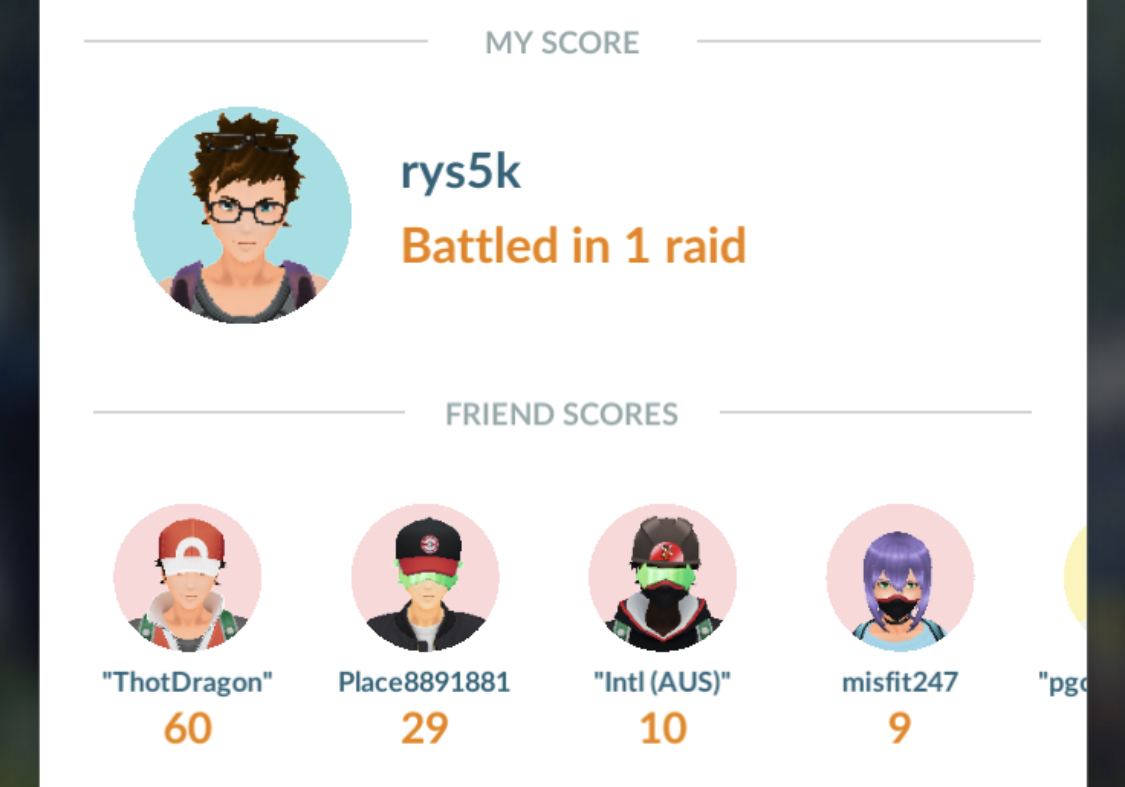
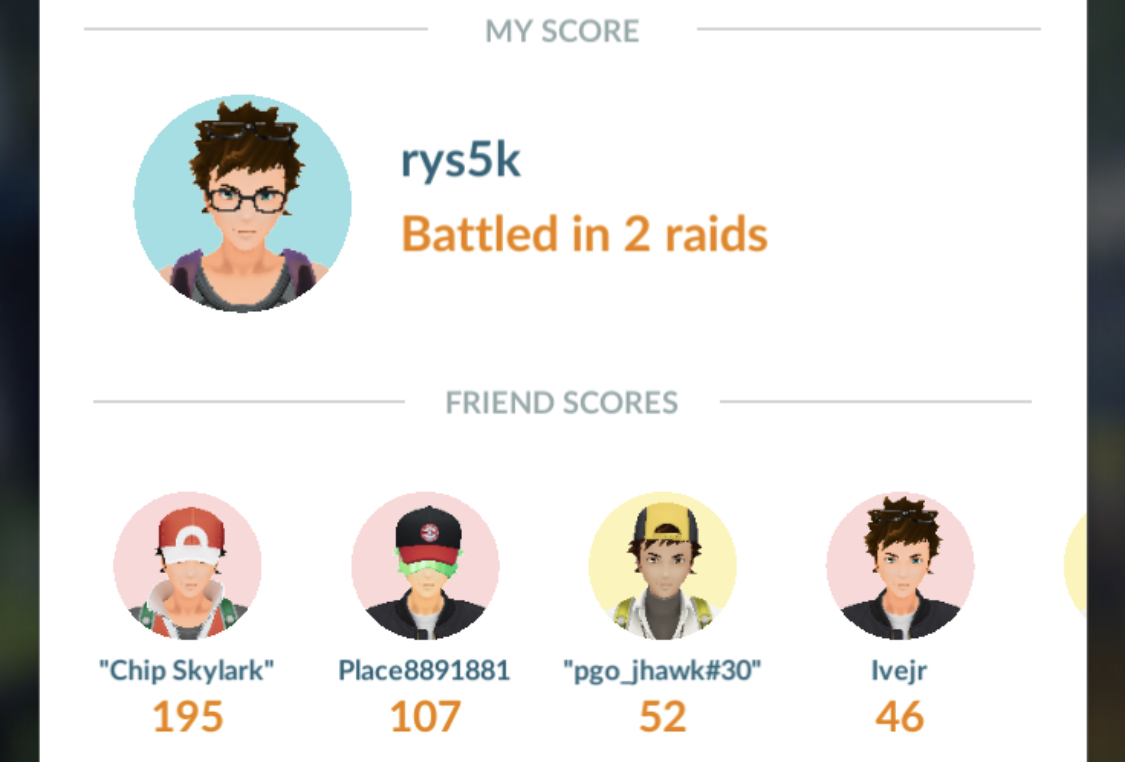
Update Sky

diff --git a/about.md b/about.md
@@ -6,7 +6,7 @@ description: Gabe Chai is a software engineer specializing in writing automated 
 
 Gabriel Chai is a SDET at [Crossborder Solutions](https://xbs.ai)
 
-[curriculum vitae ![CV as pdf](icons16/pdf-icon.png)]({{ BASE_PATH }}/broman_cv.pdf)<br/>
+[curriculum vitae ![CV as pdf](icons16/pdf-icon.png)]({{ BASE_PATH }}/Gabe_Chai.pdf)<br/>
 [github](https://github.com/gchai)<br/>
-[twitter](https://twitter.com/gchai/) <br/>
+[twitter](https://twitter.com/gabechai/) <br/>
 he/him

diff --git a/index.md b/index.md
@@ -10,7 +10,7 @@ keywords: Developer
       <ul class="nav">
           <li><a href="{{ BASE_PATH }}/Gabe_Chai.pdf">cv</a></li>
           <li><a href="https://github.com/gchai">github</a></li>
-          <li><a href="https://twitter.com/gchai">@gchai</a></li>
+          <li><a href="https://twitter.com/gabechai">@gabechai</a></li>
       </ul>
   </div>
 </div>

diff --git a/pages/sky_pls.md b/pages/sky_pls.md
@@ -3,8 +3,10 @@ layout: page
 title: Sky raid tracker
 ---
 
-### How many raids have sky done?
+### How many raids has sky done?
 
-##### 60 Raids
+##### 195 Raids
+
+###### And he has a Hundo! (and refuses to send me a screenshot)
 
 ![Sky Raid Count](../pics/sky_progress.jpg)
